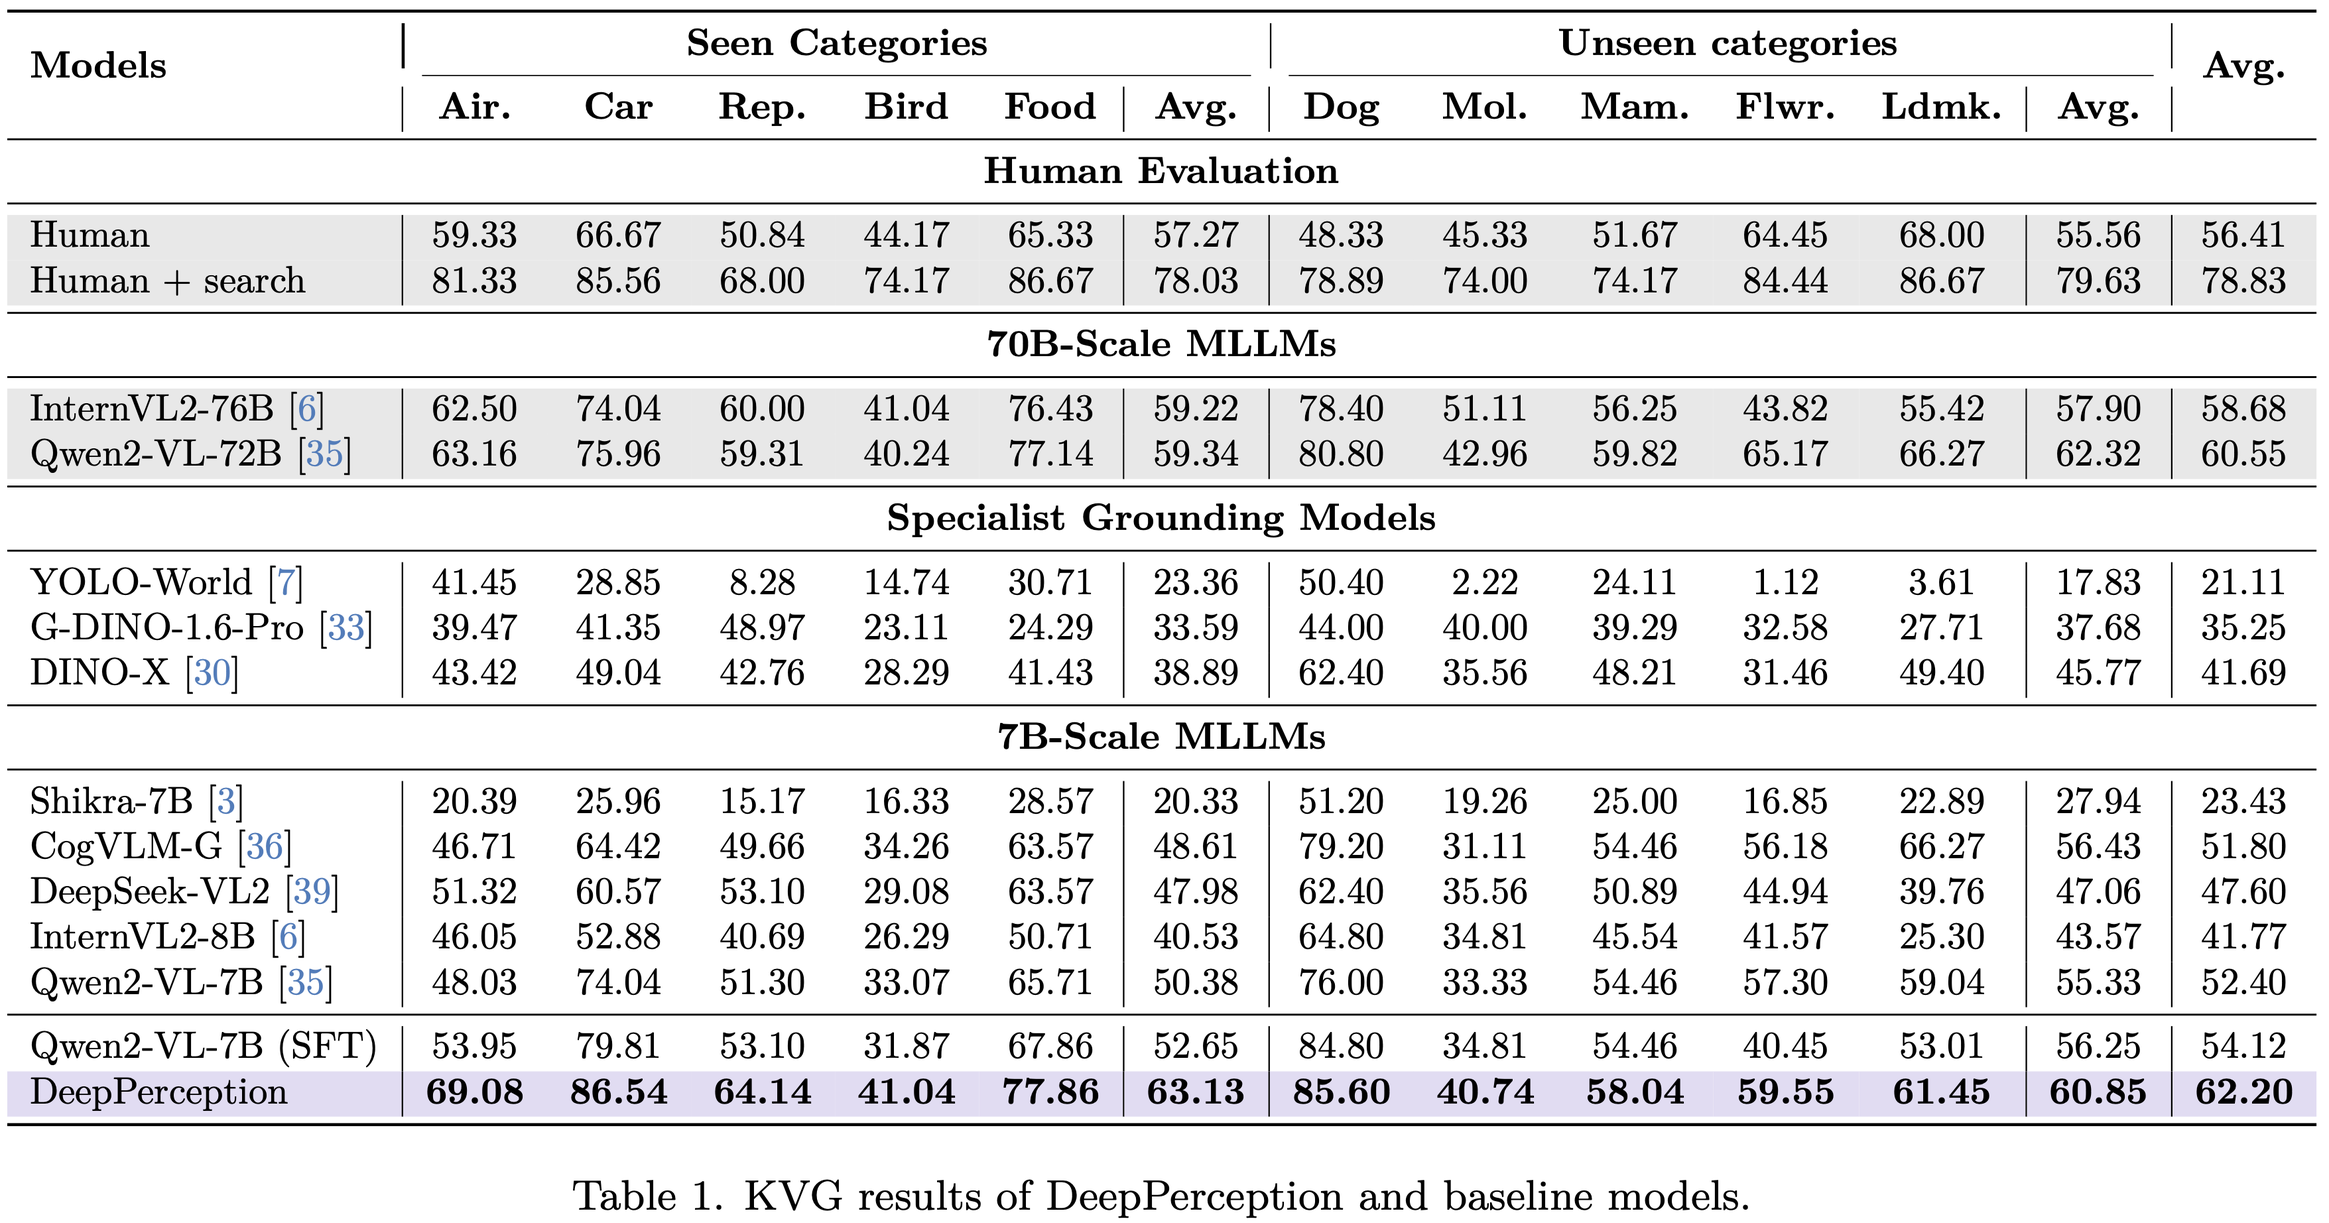
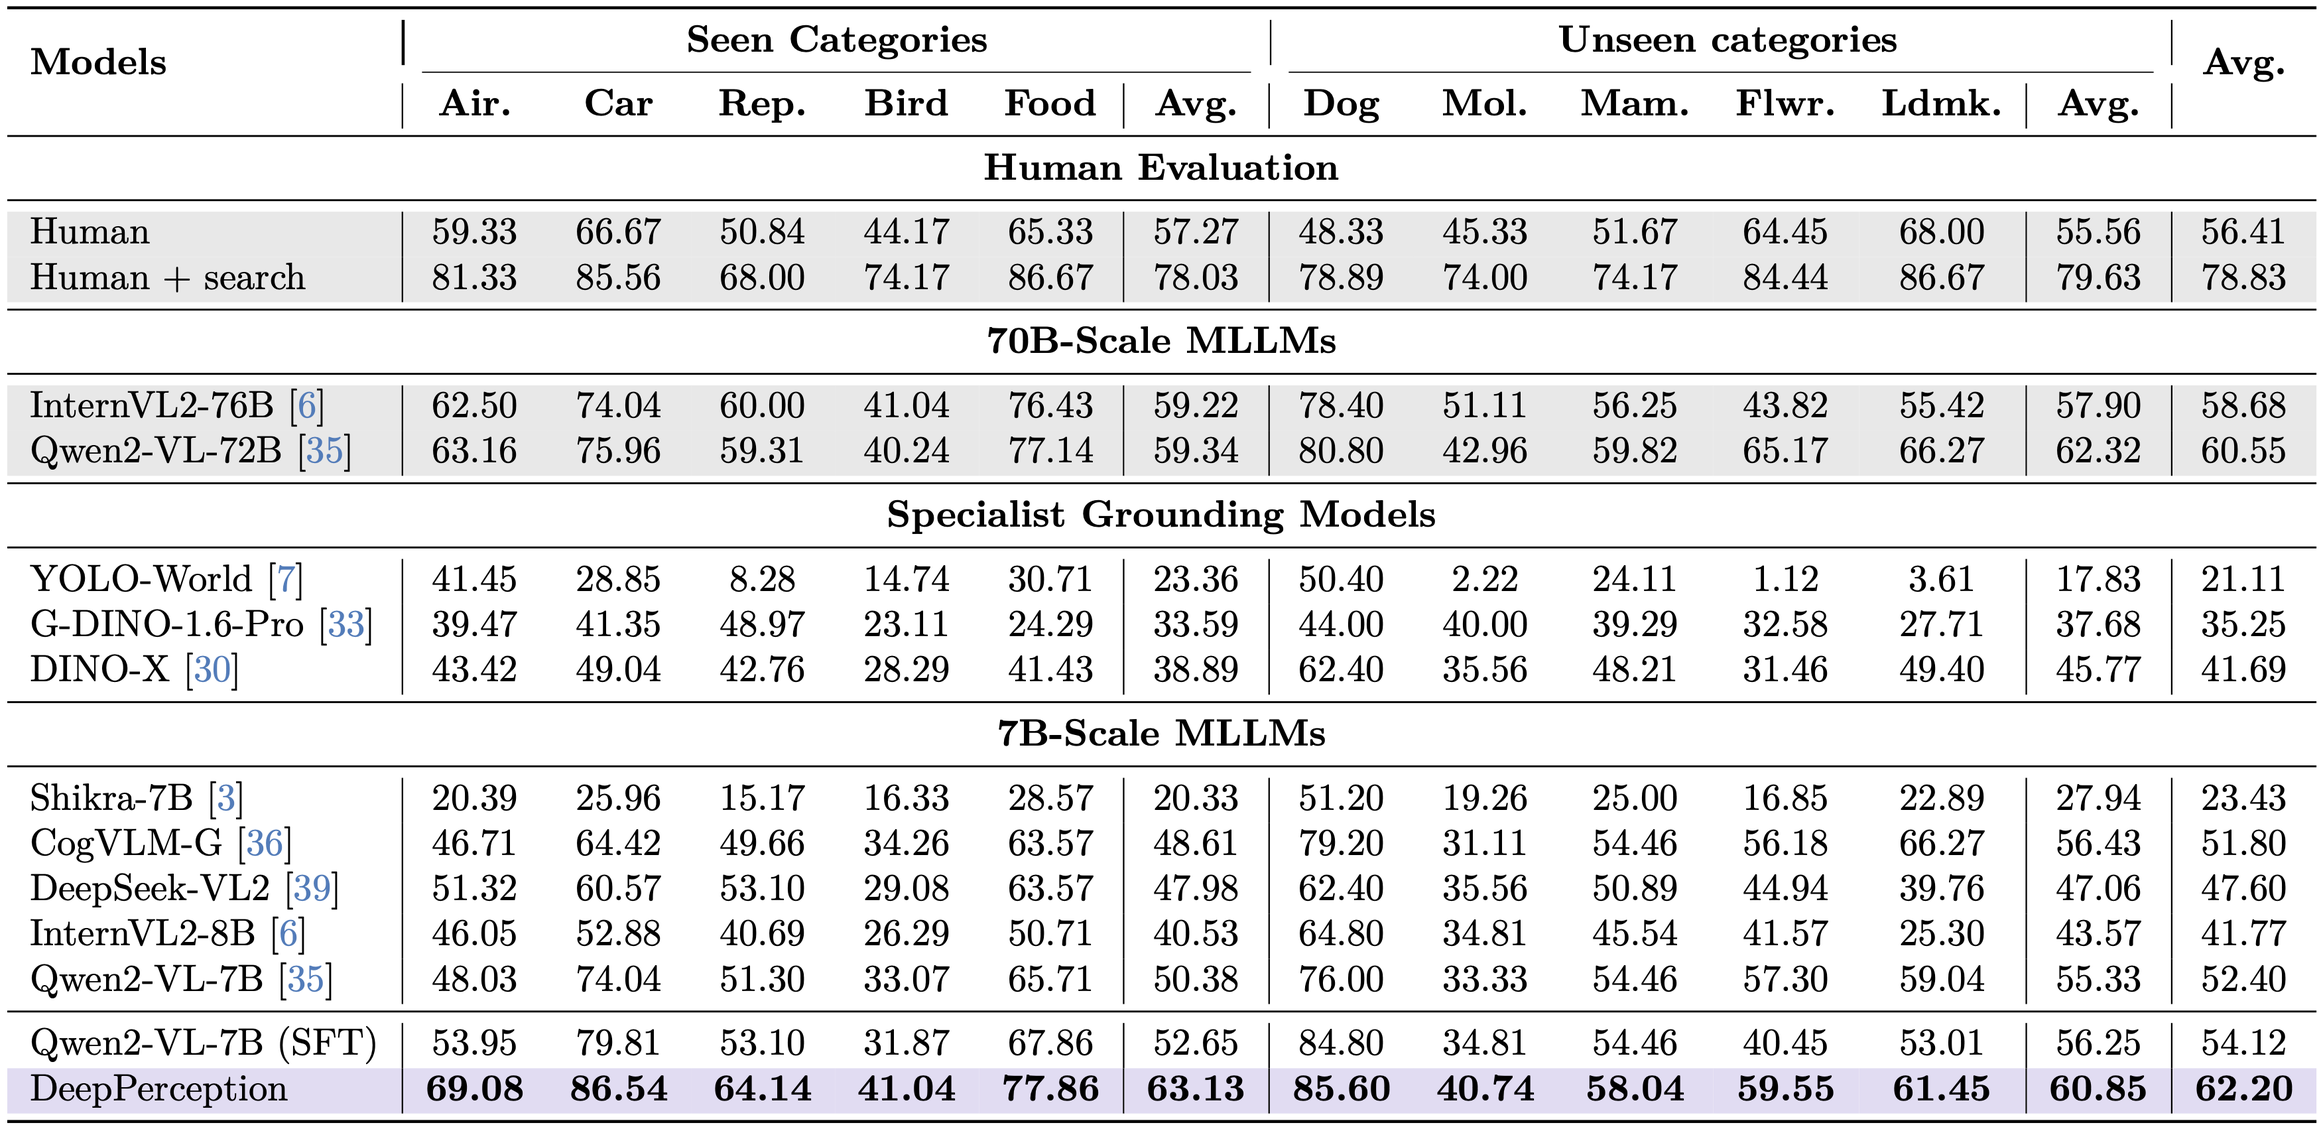
add experiments

Changed region(s): [[0.0, 0.0, 1.0, 0.9947], [0.6846, 0.3109, 0.9957, 0.4352]]

diff --git a/index.html b/index.html
@@ -182,14 +182,14 @@
 </section>
 
 <section class="section">
-    <div class="container" style="margin-top: -150px; margin-bottom: -100px;">
+    <div class="container" style="margin-top: -150px; margin-bottom: -170px;">
       <div class="columns is-centered m-6">
         <div class="column is-full has-text-centered content_index">
         <img src="static/images/header.png " type="image/png">
         <div style="height: 15px;"></div> <!-- 固定高度空行 -->
         <p class="subtitle has-text-centered caption">
-            (a) <span class="deepperception">DeepPerception</span> employs knowledge-driven reasoning to derive answers, while the baseline model directly outputs predictions without cognitive processing. 
-            (b) <span class="deepperception">DeepPerception</span> demonstrates superior cognitive visual perception capabilities that cannot be elicited in the foundation model through simplistic zero-shot CoT prompting.
+            Figure 1: (a) DeepPerception employs knowledge-driven reasoning to derive answers, while the baseline model directly outputs predictions without cognitive processing. 
+            (b) DeepPerception demonstrates superior cognitive visual perception capabilities that cannot be elicited in the foundation model through simplistic zero-shot CoT prompting.
         </p>
         </div>
     </div>
@@ -203,7 +203,7 @@
         <div class="content_index has-text-justified">
           <p style="width: 1000px; margin: 0 auto;">
             Human experts excel at fine-grained visual discrimination by leveraging domain knowledge to refine perceptual features, a capability that remains underdeveloped in current Multimodal Large Language Models (MLLMs). Despite possessing vast expert-level knowledge, MLLMs struggle to integrate reasoning into visual perception, often generating direct responses without deeper analysis. <br>
-            To bridge this gap, we introduce knowledge-intensive visual grounding (KVG), a novel visual grounding task that requires both finegrained perception and domain-specific knowledge integration. To address the challenges of KVG, we propose <strong><span class="deepperception">DeepPerception</span></strong>, an MLLM enhanced with cognitive visual perception capabilities. Our approach consists of (1) an automated data synthesis pipeline that generates high-quality, knowledge-aligned training samples, and (2) a two-stage training framework combining supervised fine-tuning for cognitive reasoning scaffolding and reinforcement learning to optimize perceptioncognition synergy. To benchmark performance, we introduce KVG-Bench, a comprehensive dataset spanning <strong>10</strong> domains with <strong>1.3K</strong> manually curated test cases. <br>
+            To bridge this gap, we introduce knowledge-intensive visual grounding (KVG), a novel visual grounding task that requires both finegrained perception and domain-specific knowledge integration. To address the challenges of KVG, we propose <strong>DeepPerception, an MLLM enhanced with cognitive visual perception capabilities</strong>. Our approach consists of (1) an automated data synthesis pipeline that generates high-quality, knowledge-aligned training samples, and (2) a two-stage training framework combining supervised fine-tuning for cognitive reasoning scaffolding and reinforcement learning to optimize perceptioncognition synergy. To benchmark performance, we introduce KVG-Bench, a comprehensive dataset spanning <strong>10</strong> domains with <strong>1.3K</strong> manually curated test cases. <br>
             Experimental results demonstrate that DeepPerception significantly outperforms direct fine-tuning, achieving <strong>+8.08%</strong> accuracy improvements on KVG-Bench and exhibiting <strong>+4.60%</strong> superior cross-domain generalization over baseline approaches. Our findings highlight the importance of integrating cognitive processes into MLLMs for human-like visual perception and open new directions for multimodal reasoning research.
 
           </p>
@@ -217,7 +217,7 @@
 <!-- --------------------------------------Benchmark------------------------------------------------- -->
 <section class="hero is-light is-small">
   <div class="hero-body has-text-centered">
-    <h1 class="title is-1 deepperception2">Benchmark</h1>
+    <h1 class="title is-1 deepperception2">KVG-Bench</h1>
   </div>
 </section>
 
@@ -225,19 +225,24 @@
     <div class="container" style="margin-top: -60px; margin-bottom: -100px;">
       <div class="columns is-centered m-6">
         <div class="column is-full has-text-centered content">
-        <h2 class="title is-3">KVG-Bench</h2>
         <img src="static/images/benchmark.png " type="image/png">
         <div style="height: 15px;"></div> <!-- 固定高度空行 -->
         <p class="subtitle has-text-centered caption">
-          (a) KVG-Bench images contain multiple subordinate-category entities (e.g., Boeing 777, 767, 757, 747, 737, 727, 717, 707 from top to bottom in the left image); (b) KVG-Bench exhibits high diversity across categories and entities.
+          Figure 2: (a) KVG-Bench images contain multiple subordinate-category entities (e.g., Boeing 777, 767, 757, 747, 737, 727, 717, 707 from top to bottom in the left image); (b) KVG-Bench exhibits high diversity across categories and entities.
         </p>
         <div style="height: 30px;"></div> <!-- 固定高度空行 -->
+        <h2 class="title is-3">Task Definition</h2>
         <div class="content_index has-text-justified">
             <p>
-                The task of knowledge-intensive visual grounding (KVG) is to predict a bounding box $B = f_\theta (X_I , X_T )$ through joint understanding of visual input X_I and textual query X_T , requiring fine-grained alignment between multimodal representations. While sharing structural similarities with referring expression comprehension (REC), this task significantly elevates the challenge beyond standard REC tasks. As exemplified in Figure above, the queries of KVG involve fine-grained entity specifications (e.g., “Boeing 747”) rather than generic categories such as “aircraft”. Additionally, each image contains multiple objects from the same category of the target object (e.g., multiple aircraft in a single image). This setup requires both expert-level knowledge and advanced perceptual and reasoning abilities to pinpoint the precise features that distinguish the target from similar objects.
+                The task of knowledge-intensive visual grounding (KVG) is to predict a bounding box $B = f_\theta (X_I , X_T )$ through joint understanding of visual input $X_I$ and textual query $X_T$ , requiring fine-grained alignment between multimodal representations. While sharing structural similarities with referring expression comprehension (REC), this task significantly elevates the challenge beyond standard REC tasks. As exemplified in Figure above, the queries of KVG involve fine-grained entity specifications (e.g., “Boeing 747”) rather than generic categories such as “aircraft”. Additionally, each image contains multiple objects from the same category of the target object (e.g., multiple aircraft in a single image). This setup requires both <strong>expert-level knowledge and advanced perceptual and reasoning abilities</strong> to pinpoint the precise features that distinguish the target from similar objects.
             </p>
         </div>
-        
+        <h2 class="title is-3">Human Evaluation</h2>
+        <div class="content_index has-text-justified">
+            <p>
+                To assess the diﬀiculty of KVG-Bench, we conducted human evaluations with 11 non-expert volunteers under two experimental settings: Closed-Book (no external resources) and Open-Book (single Wikipedia query/case to simulate expert-level knowledge integration). Participants were randomly assigned several categories, with each category at least five evaluators to mitigate knowledge bias. The evaluation results, as shown in Tab. 1, reveal significant performance differences between settings. The Open-Book Setting demonstrated significant performance elevation (78.83% accuracy) compared to Closed-Book results (56.41%). This validates that KVG-Bench requires synergistic integration of expert-level knowledge and fine-grained visual comparison, positioning it as a meaningful testbed for advancing cognitive visual perception in MLLMs.
+            </p>
+        </div>
       </div>
     </div>
   </section>
@@ -249,7 +254,7 @@
 
 <section class="hero is-light is-small">
   <div class="hero-body has-text-centered">
-    <h1 class="title is-1 deepperception2">Methods</h1>
+    <h1 class="title is-1 deepperception2">Method</h1>
   </div>
 </section>
 
@@ -257,22 +262,21 @@
   <div class="container" style="margin-top: -45px; margin-bottom: -100px;">
     <div class="columns is-centered m-6">
       <div class="column is-full has-text-centered content_index">
-        <h2 class="title is-3">Overview</h2>
+        <!-- <h2 class="title is-3">Overview</h2> -->
         <img src="static/images/method.png " type="image/png">
         <div style="height: 15px;"></div>
         <p class="subtitle has-text-centered caption">
-          Overview of the proposed data engine and two-stage training framework.
+          Figure 3: Overview of the proposed data engine and two-stage training framework.
         </p>
       </div>
     </div>
 </section>
 
-<section class="section">
+<!-- <section class="section">
   <div class="container" style="margin-top: -45px; margin-bottom: -100px;">
     <div class="columns is-centered m-6">
       <div class="column is-full has-text-centered content_index">
         <h2 class="title is-3">Data Engine</h2>
-        <!-- <img src="static/images/method.png " type="image/png"> -->
         <div class="content_index has-text-justified">
           <p>
             The training data images for KVG must meet the following criteria: (1) they should include expert-level entity and bounding box annotations, and (2) the images should contain multiple similar objects to ensure the difficulty of the task.
@@ -288,7 +292,7 @@
       </div>
       </div>
     </div>
-</section>
+</section> -->
 
 <section class="section">
   <div class="container" style="margin-top: -45px; margin-bottom: -100px;">
@@ -297,7 +301,7 @@
         <h2 class="title is-3">Chain-of-Thought Supervised Fine-Tuning</h2>
         <img src="static/images/figure-CoT.png " type="image/png">
         <p class="subtitle has-text-centered caption">
-          Case study using Chain-of-Thought data generated by Qwen2-VL-72B.
+          Figure 4: Example of Chain-of-Thought data generated by Qwen2-VL-72B.
         </p>
         <div style="height: 30px;"></div> <!-- 固定高度空行 -->
         <div class="content_index has-text-justified">
@@ -344,8 +348,7 @@
           <strong>Training Objective.</strong> Let $q$ denote the question and ${o_1, . . . , o_G}$ denote the sampled outputs from the old policy model πθold , then the optimization objective of
           policy model $\pi_{\theta}$ can be formally defined as: 
         </p>
-        <p align="center">$\mathcal{J}_{G R P O}(\theta)=\mathbb{E}\left[q \sim P(Q),\left\{o_i\right\}_{i=1}^G \sim \pi_{\theta_{o l d}}(O \mid q)\right]$</p>
-        <p align="center">$\frac{1}{G} \sum_{i=1}^G \left(\frac{\pi_\theta\left(o_i \mid q\right)}{\pi_{\theta_{o l d}}\left(o_i \mid q\right)} A_i - \beta \mathbb{D}_{K L}\left(\pi_\theta| | \pi_{r e f}\right)\right)$</p>
+        <p align="center">$\mathcal{J}_{G R P O}(\theta)=\mathbb{E}\left[q \sim P(Q),\left\{o_i\right\}_{i=1}^G \sim \pi_{\theta_{o l d}}(O \mid q)\right]\frac{1}{G} \sum_{i=1}^G \left(\frac{\pi_\theta\left(o_i \mid q\right)}{\pi_{\theta_{o l d}}\left(o_i \mid q\right)} A_i - \beta \mathbb{D}_{K L}\left(\pi_\theta| | \pi_{r e f}\right)\right),$</p>
         <p align="center">$\mathbb{D}_{K L}\left(\pi_\theta| | \pi_{r e f}\right)=\frac{\pi_{r e f}\left(o_i \mid q\right)}{\pi_\theta\left(o_i \mid q\right)}-\log \frac{\pi_{r e f}\left(o_i \mid q\right)}{\pi_\theta\left(o_i \mid q\right)}-1$</p>
         <p>where $\varepsilon$ and $\beta$ are hyper-parameters and $A_i$ is the advantage computed based on a group of rewards $\{r_1, \ldots, r_G\}$ corresponding to the outputs of each group:</p>
         <p align="center">$A_i=\frac{r_i-mean(\{r_1, \ldots, r_G\})}{std(\{r_1, \ldots, r_G\})}$</p>
@@ -381,16 +384,64 @@
 
 <section class="hero is-light is-small">
   <div class="hero-body has-text-centered">
-    <h1 class="title is-1 deepperception2">Experiments Results</h1>
+    <h1 class="title is-1 deepperception2">Experiment & Analysis</h1>
   </div>
 </section>
 
-
 <section class="section">
+    <div class="container" style="margin-top: -45px; margin-bottom: -100px;">
+      <div class="columns is-centered m-6">
+        <div class="column is-full has-text-centered content_index">
+          <h2 class="title is-3">Main Results</h2>
+          <img src="static/images/main_result.png " type="image/png">
+          <div style="height: 15px;"></div>
+          <p class="subtitle has-text-centered caption">
+            Table 1: KVG-Bench reults of DeepPerception and baseline models.
+          </p>
+          <div style="height: 30px;"></div> <!-- 固定高度空行 -->
+          <div class="content_index has-text-justified">
+            <p>
+                As demonstrated in Tab. 1, our DeepPerception model achieves significant performance improvements by integrating cognitive visual perception capabilities, validating the hypothesis that human-inspired cognition-perception synergy enhances visual perception. On in-domain categories, the model attains 63.13% average accuracy, surpassing all 7B-scale baselines (e.g., +10.5% over SFT) and outperforming 70B-scale models such as InternVL2-Llama3-76B (59.22%). For out-of-domain generalization, it achieves 60.85% accuracy —comparable to 70B-scale models—while demonstrating near-human performance in categories where the model possesses richer knowledge, such as Dog (85.60% vs. human evaluators’78.89%).<br>
+                These results confirm that DeepPerception’s success stems from its ability to emulate human-like cognitive processes: iterative knowledge-guided reasoning refines perceptual hypotheses (e.g., verifying anatomical features stepwise), while reinforcement learning aligns these hypotheses with precise visual outputs. The consistent superiority over non-cognitive baselines, particularly in fine-grained categories like Car (86.54% vs. human 85.56%), proves that structured knowledge integration—not mere visual memorization —drives performance gains. By bridging knowledge reasoning with perception, DeepPerception establishes new state-of-the-art results on KVG-Bench, demonstrating that cognitive mechanisms central to biological vision can be effectively operationalized in multimodal AI systems.
+            </p>
+            </div>
+
+          <div style="height: 30px;"></div> <!-- 固定高度空行 -->
+
+          <img src="static/images/fgvr.png " type="image/png">
+          <div style="height: 15px;"></div>
+          <p class="subtitle has-text-centered caption">
+            Table 2: FGVR reults of DeepPerception and baseline models.
+          </p>
+
+          <div class="content_index has-text-justified">
+            <p>
+                To validate the generalizability of cognitive visual perception, we conducted experiments on FGVR datasets. Unlike the two-stage training paradigm used for KVG, only the reinforcement learning phase was applied here, as base models already exhibit strong baseline performance on FGVR. As shown in Tab. 2, our DeepPerception model achieves state-of-the-art results across all categories, demonstrating universal performance gains: DeepPerception achieves state-of-the-art results across all FGVR categories (83.21% average accuracy), outperforming Qwen2-VL-7B by +3.64%. This evidence strongly supports that cognitive visual perception, characterized by iterative knowledge-visual alignment, provides universal benefits for fine-grained perception, mirroring human experts’ ability to combine sensory input with conceptual understanding.
+            </p>
+            </div>
+
+          <div style="height: 30px;"></div> <!-- 固定高度空行 -->
+
+          <img src="static/images/general.png " type="image/png">
+          <div style="height: 15px;"></div>
+          <p class="subtitle has-text-centered caption">
+            Table 3: Performance Comparison of DeepPerception and Qwen2VL-7B on general multimodal benchmarks.
+          </p>
+          <div class="content_index has-text-justified">
+            <p>
+                To comprehensively assess the model’s general capabilities across diverse multimodal scenarios, we conducted evaluations on established multimodal benchmarks. As shown in Tab. 3, DeepPerception maintains performance comparable to the base model, demonstrating preserved general capabilities without degradation.
+            </p>
+            </div>
+        </div>
+      </div>
+  </section>
+
+
+<!-- <section class="section">
     <div class="container" style="margin-top: -60px; margin-bottom: -100px;">
       <div class="columns is-centered m-6">
         <div class="column is-full has-text-centered content_index">
-          <!-- <h2 class="title is-3">Experiments</h2> -->
+
           <div id="results-carousel" class="carousel results-carousel">
 
             <div class="box">
@@ -415,7 +466,7 @@
         </div>
       </div>
     </div>
-  </section>
+</section> -->
 
   <p style="margin-bottom: 100px;"></p>
 
